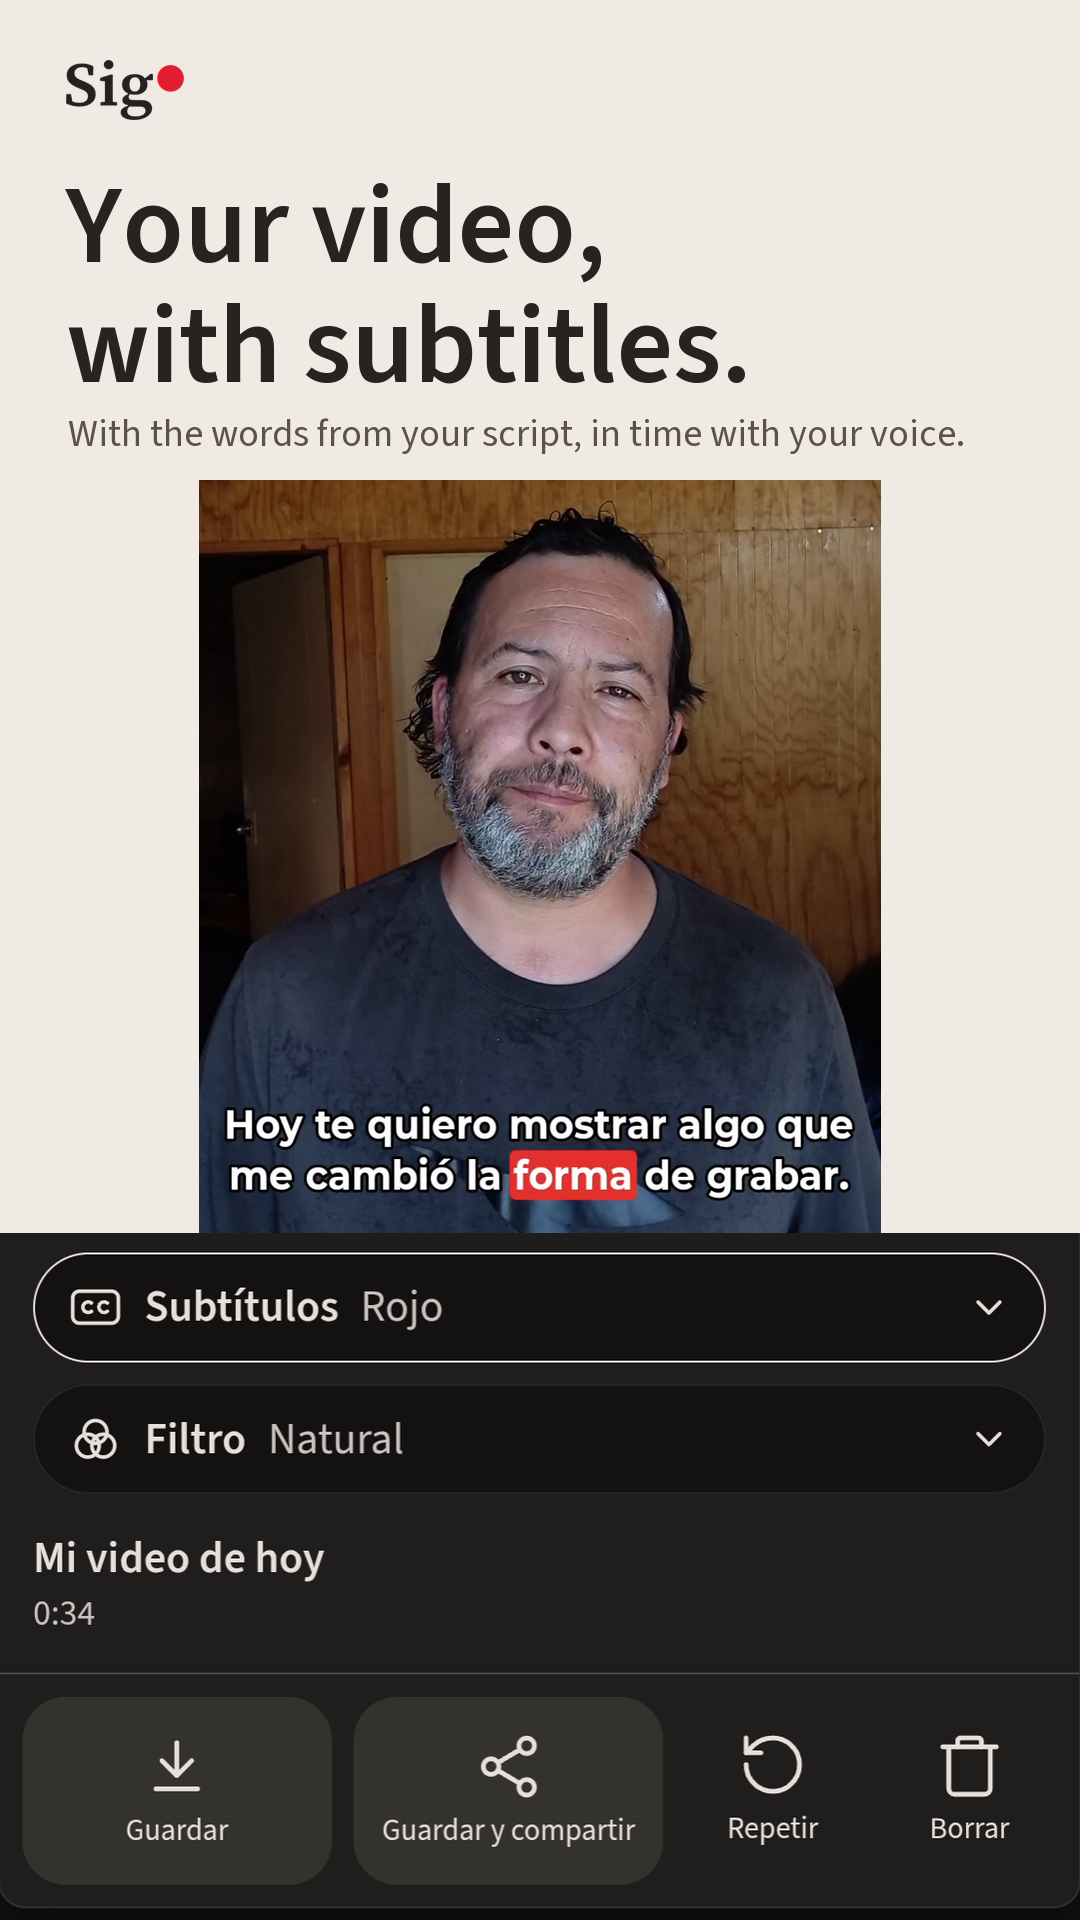
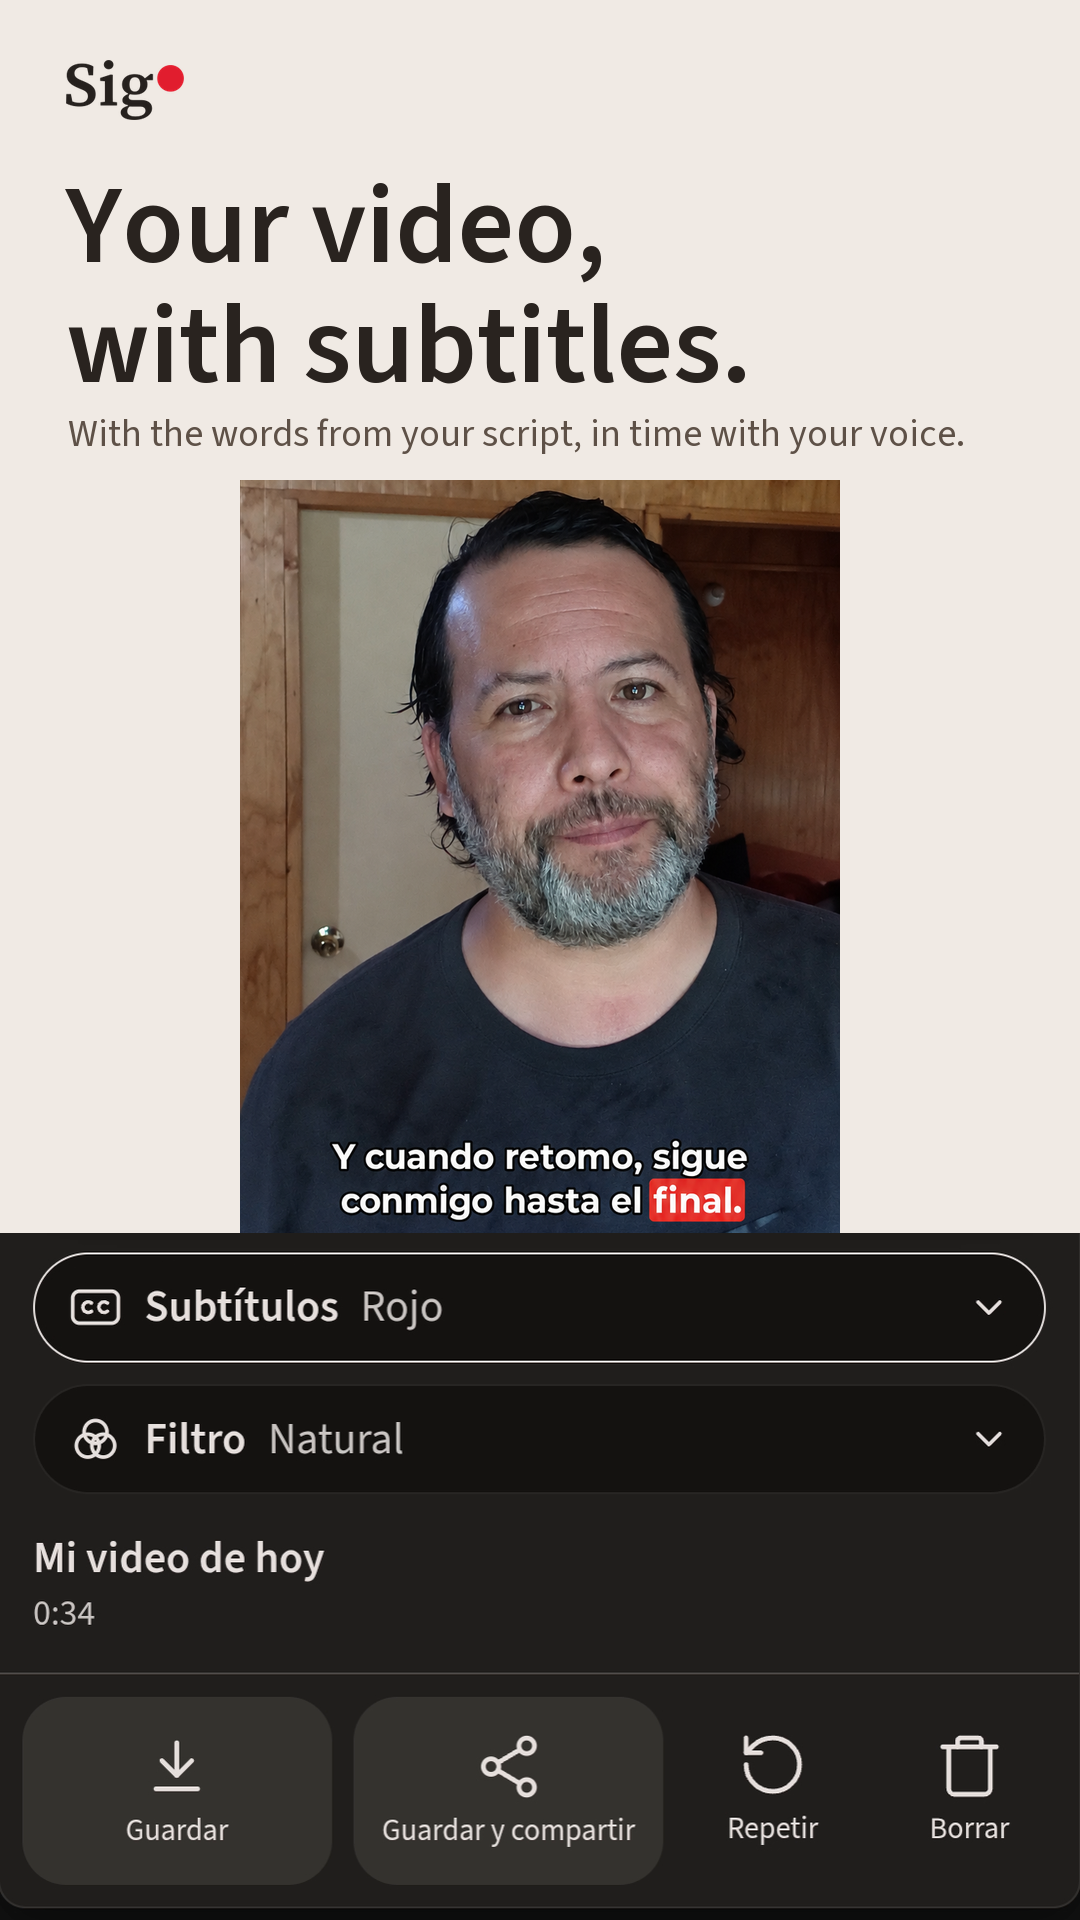
Ficha 1.1: la 05 usa el cuadro que mandó Javier, en los tres idiomas (t177u)
El video de arriba de la 05 sale del cuadro del video exportado que mandó Javier por el chat
(05-subtitulos-e-cuadro-video-javier.png, copiado tal cual): todo el ancho, filas 463-1520,
reducido con Lanczos a 600x753 y centrado en [240, 480]. El panel de 05-d, los titulares y las
bajadas no cambian. Cara medida a mano: 7,9 %. El comprobador exige este cuadro, con su huella.
Procedencia con el origen de la cruda; láminas, medidas, huellas y LEEME al día.

Changed region(s): [[0.1833, 0.25, 0.825, 0.6562]]

diff --git a/docs/play/ficha/herramientas/verificar_ficha.py b/docs/play/ficha/herramientas/verificar_ficha.py
@@ -279,7 +279,13 @@ def comprobar_ficha_11():
             # 12-11-2026, t170u: una captura puede traer sus propias crudas -la 5 en inglés y portugués usa las de español-.
             rs = [recorte_fiel(final, c.get('crudas', crudas), r, nombre) for r in c['recortes']]
             # 14-11-2026, t171u: en la 5, el video de arriba es 05-b -boca cerrada-, no 05-a -hablando, con la boca abierta-.
-            if c['n'] == 5 and any(r['cruda'].startswith('05-subtitulos-a') for r in c['recortes']): errores.append('La 5 usa 05-a, con la boca abierta: '+nombre)
+            # Antes -14-11-2026-: la regla era «if c['n'] == 5 and any(r['cruda'].startswith('05-subtitulos-a') for r in c['recortes'])».
+            # Ahora -t177u-: Javier no quiso 05-b; el video de arriba es el cuadro que mandó, 05-subtitulos-e-cuadro-video-javier.png,
+            # con su huella, y el panel sigue siendo 05-d.
+            if c['n'] == 5:
[1 lines of base64/hex data omitted]
+                if [r['cruda'] for r in c['recortes']] != [CUADRO5[0], '05-subtitulos-d-visor-guardar-agrupado.png']: errores.append('La 5 no usa el cuadro de Javier arriba y 05-d abajo: '+nombre)
+                elif sha(SOURCE/c.get('crudas', crudas)/CUADRO5[0]) != CUADRO5[1]: errores.append('El cuadro de Javier de la 5 no es el que mandó -huella distinta-: '+nombre)
             if c.get('zona_igual'):
                 # La zona de la captura -la unión de las cajas de destino de los recortes- tiene que ser, píxel por píxel, la de la
                 # pieza de referencia; y fuera de esa zona, del logo y de las cajas de texto, solo el fondo liso: ninguna palabra en

diff --git a/docs/play/ficha/herramientas/armar_ficha.py b/docs/play/ficha/herramientas/armar_ficha.py
@@ -310,7 +310,9 @@ def armar_ficha_11():
         dx,dy=r['destino']
         if dx<0 or dy<0 or dx+p.width>im.width or dy+p.height>im.height:raise ValueError('El recorte se sale de la imagen: '+nombre)
         im.paste(p,(dx,dy))
-        extra={k:r[k] for k in ('margen_texto_app','motivo_escala','excepcion_borde','excluye') if k in r}
+        # 14-11-2026, t177u: «origen_cruda» dice de dónde llegó una cruda que no vino en los ZIP -el cuadro que mandó Javier por el chat-.
+        # Antes -14-11-2026-: extra tomaba solo margen_texto_app, motivo_escala, excepcion_borde y excluye.
+        extra={k:r[k] for k in ('margen_texto_app','motivo_escala','excepcion_borde','excluye','origen_cruda') if k in r}
         procedencia.append(dict(imagen=nombre,cruda=src.relative_to(REPO).as_posix(),sha256_cruda=sha(src),recorte_cruda=[x0,y0,x1,y1],
             caja_destino=[dx,dy,p.width,alto],escala=round(escala,4),parte=r['parte'],
             tratamiento='Recorte y escala proporcional LANCZOS -o sin escala, si la escala es 1-. Sin retoque, sin marco y sin tapar nada; la barra de estado queda fuera del recorte.',**extra))

diff --git a/docs/play/ficha/LEEME.md b/docs/play/ficha/LEEME.md
@@ -158,7 +158,13 @@ Javier aprobó la fase 1 tal como quedó en `1ec2fd7` y pidió la ficha completa
 
 **Decisiones de Javier aplicadas:**
 - Capturas 1, 2 y 3 en español y gráfico en español: las de la fase 1, copiadas byte a byte. El gráfico empieza en «pensar,».
-- Captura 5, en los tres idiomas -t171u, 14-11-2026-: el video de arriba sale ahora de `05-subtitulos-b-video-guardado.png`, el mismo video a 0:04, con la boca cerrada y «forma» en rojo en «Hoy te quiero mostrar algo que me cambió la forma de grabar.». Mismo recorte -[130, 700, 1090, 1760]-, escala -0,710×- y posición -[199, 480]- que en la fase 1; el panel de 05-d queda igual. En 05-a se veía hablando, con la boca abierta. La 5 en español ya no es la copia de la fase 1: se arma igual que en inglés y portugués, con el titular y la bajada de la fase 1. La cara, medida con una caja nueva sobre 05-b -[400, 720, 850, 1310]-, ocupa el 6,45 %. El comprobador falla si una 5 vuelve a usar 05-a.
+- Captura 5, en los tres idiomas -t177u, 14-11-2026-: Javier no quiso el cuadro de 05-b -«quiero una en que me vea mejor»- y mandó por el chat un cuadro del video exportado, de la misma sesión: `herramientas/entradas/motorola-1.1/es/05-subtitulos-e-cuadro-video-javier.png`, copiado tal cual -842×1869, RGB, SHA-256 `5b94bc33…73de`-. Trae quemado el subtítulo «Y cuando retomo, sigue / conmigo hasta el final.», con «final» en rojo.
+  - Va arriba a todo el ancho de la cruda, filas 463 a 1520, **reducido** -0,713×, sin ampliar- a 600×753 y centrado en [240, 480]. La caja vieja medía 682 de ancho desde x 199; lo que sobra queda con el fondo de la pieza.
+  - La prueba que aprobó Javier empezaba en la fila 468. Se bajó 5 filas para dejar el mismo aire arriba del pelo -16 filas de cruda- que bajo el subtítulo -17-. El pelo empieza en la fila 479 y el subtítulo termina en la 1503: los dos quedan enteros.
+  - El panel de 05-d, los titulares y las bajadas no cambian. La cara, medida a mano sobre la cruda en [210, 470, 710, 1115], ocupa el 7,9 % de la imagen.
+  - El comprobador exige este cuadro, con su huella, arriba y 05-d abajo, en las tres 05.
+
+  > Antes -14-11-2026-: «Captura 5, en los tres idiomas -t171u, 14-11-2026-: el video de arriba sale ahora de `05-subtitulos-b-video-guardado.png`, el mismo video a 0:04, con la boca cerrada y «forma» en rojo en «Hoy te quiero mostrar algo que me cambió la forma de grabar.». Mismo recorte -[130, 700, 1090, 1760]-, escala -0,710×- y posición -[199, 480]- que en la fase 1; el panel de 05-d queda igual. En 05-a se veía hablando, con la boca abierta. La 5 en español ya no es la copia de la fase 1: se arma igual que en inglés y portugués, con el titular y la bajada de la fase 1. La cara, medida con una caja nueva sobre 05-b -[400, 720, 850, 1310]-, ocupa el 6,45 %. El comprobador falla si una 5 vuelve a usar 05-a.»
 
   > Antes -14-11-2026-: «Capturas 1, 2, 3 y 5 en español y gráfico en español: las de la fase 1, copiadas byte a byte. El gráfico empieza en «pensar,».»
 - Breve B en los tres idiomas. La C queda guardada; la de control no se publica.
@@ -166,7 +172,7 @@ Javier aprobó la fase 1 tal como quedó en `1ec2fd7` y pidió la ficha completa
 - 5 en inglés y portugués -t170u-: la captura es la de español, píxel por píxel, y solo cambian el titular y la bajada, con el mismo tamaño, lugar y letra:
   - inglés: «Your video, / with subtitles.» y «With the words from your script, in time with your voice.»;
   - portugués: «Seu vídeo, / com legendas.» y «Com as palavras do seu roteiro, no ritmo da sua voz.».
-  - Se arma con los mismos dos recortes de las crudas en español -`motorola-1.1/es`, 05-b y 05-d; antes -14-11-2026-: «05-a y 05-d»- y se comprueba que la zona de la captura sea igual a `capturas/es-419/05.png`; dentro de la app se sigue viendo español -«Subtítulos Rojo», «Guardar»- y el texto alternativo lo dice.
+  - Se arma con los mismos dos recortes de las crudas en español -`motorola-1.1/es`, el cuadro de Javier y 05-d; antes -14-11-2026-: «05-b y 05-d», y antes, «05-a y 05-d»- y se comprueba que la zona de la captura sea igual a `capturas/es-419/05.png`; dentro de la app se sigue viendo español -«Subtítulos Rojo», «Guardar»- y el texto alternativo lo dice.
 
   > Antes -12-11-2026-: «5 en inglés y portugués: la misma 05 aprobada en español. **Ojo:** su titular -«Tu video, con subtítulos.»- y el panel están en español dentro de las fichas en inglés y portugués. El texto alternativo lo dice.»
 - 3 en portugués: la ventana recortada por encima de «Pausa / Volver a Sigo». Va a sangre por abajo y por la derecha. Los renglones salen enteros y no queda ni una línea de la fila en español: la caja de esa fila está declarada en `excluye`, y el generador y el comprobador fallan si el recorte la toca. El botón rojo de grabar queda fuera; la cámara se reconoce por el tiempo rojo 00:30. Si a Javier le parece cortada, se quita y la ficha portuguesa queda con siete capturas, sin usar la de otro idioma.
